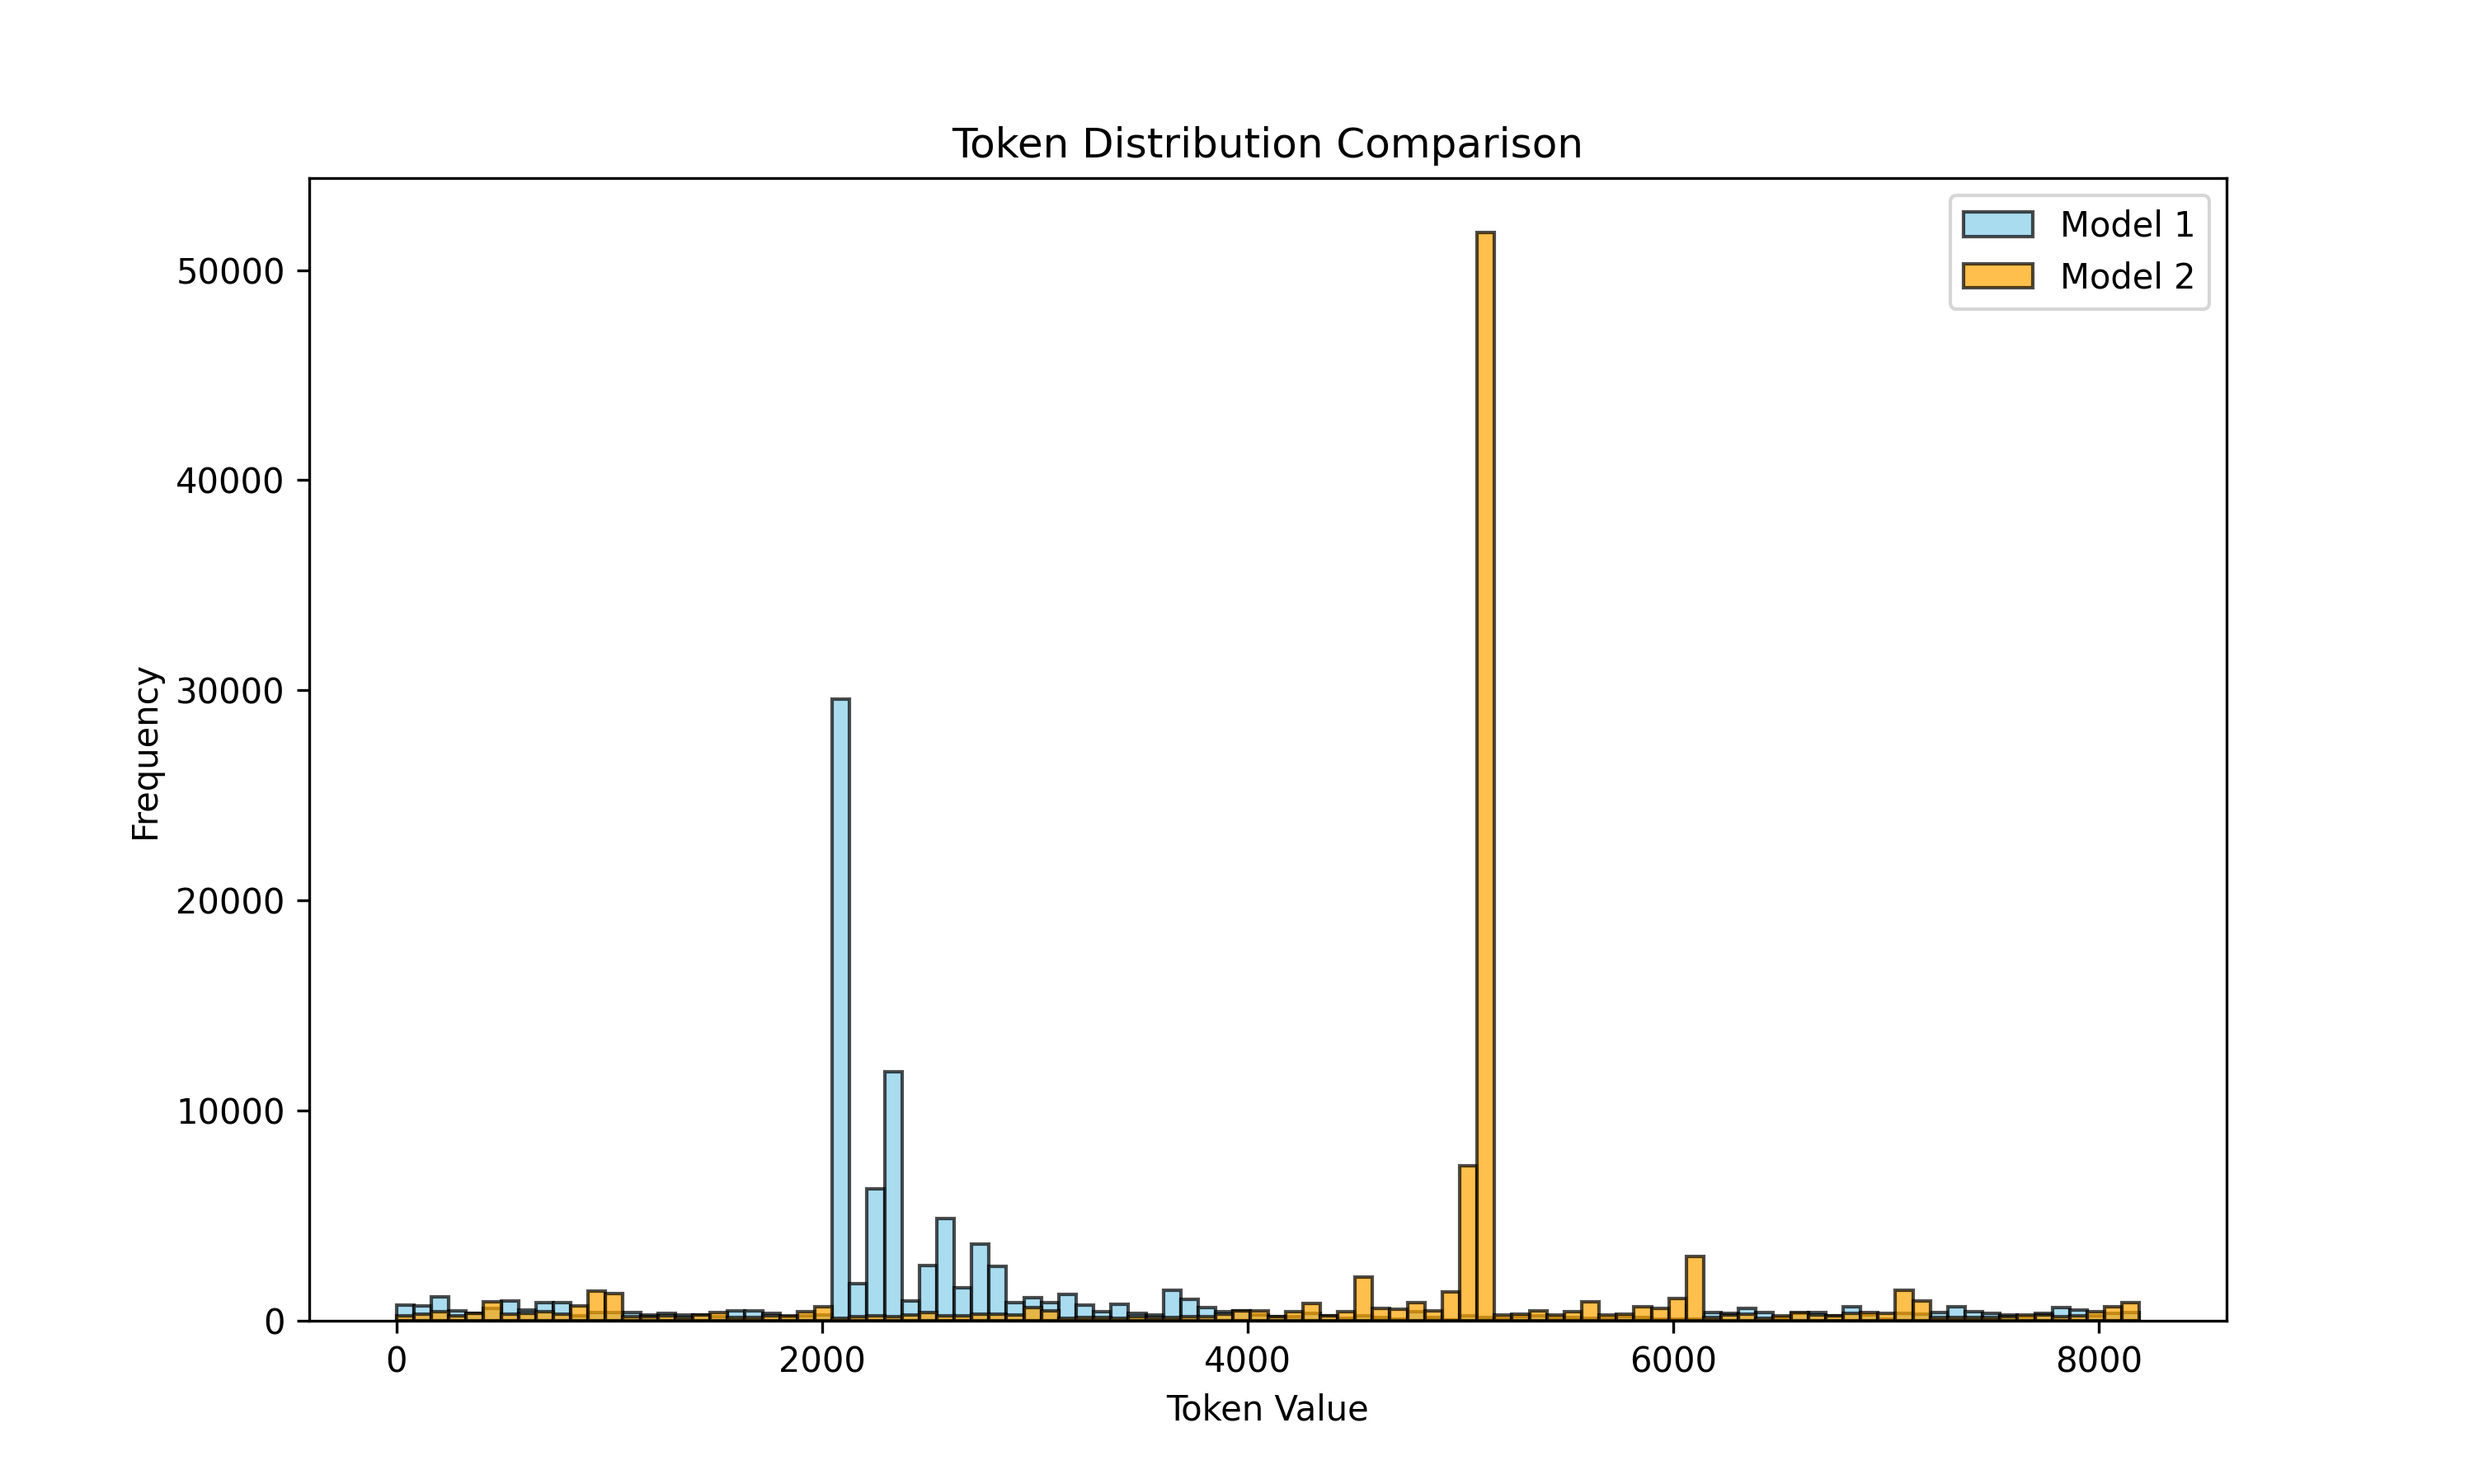
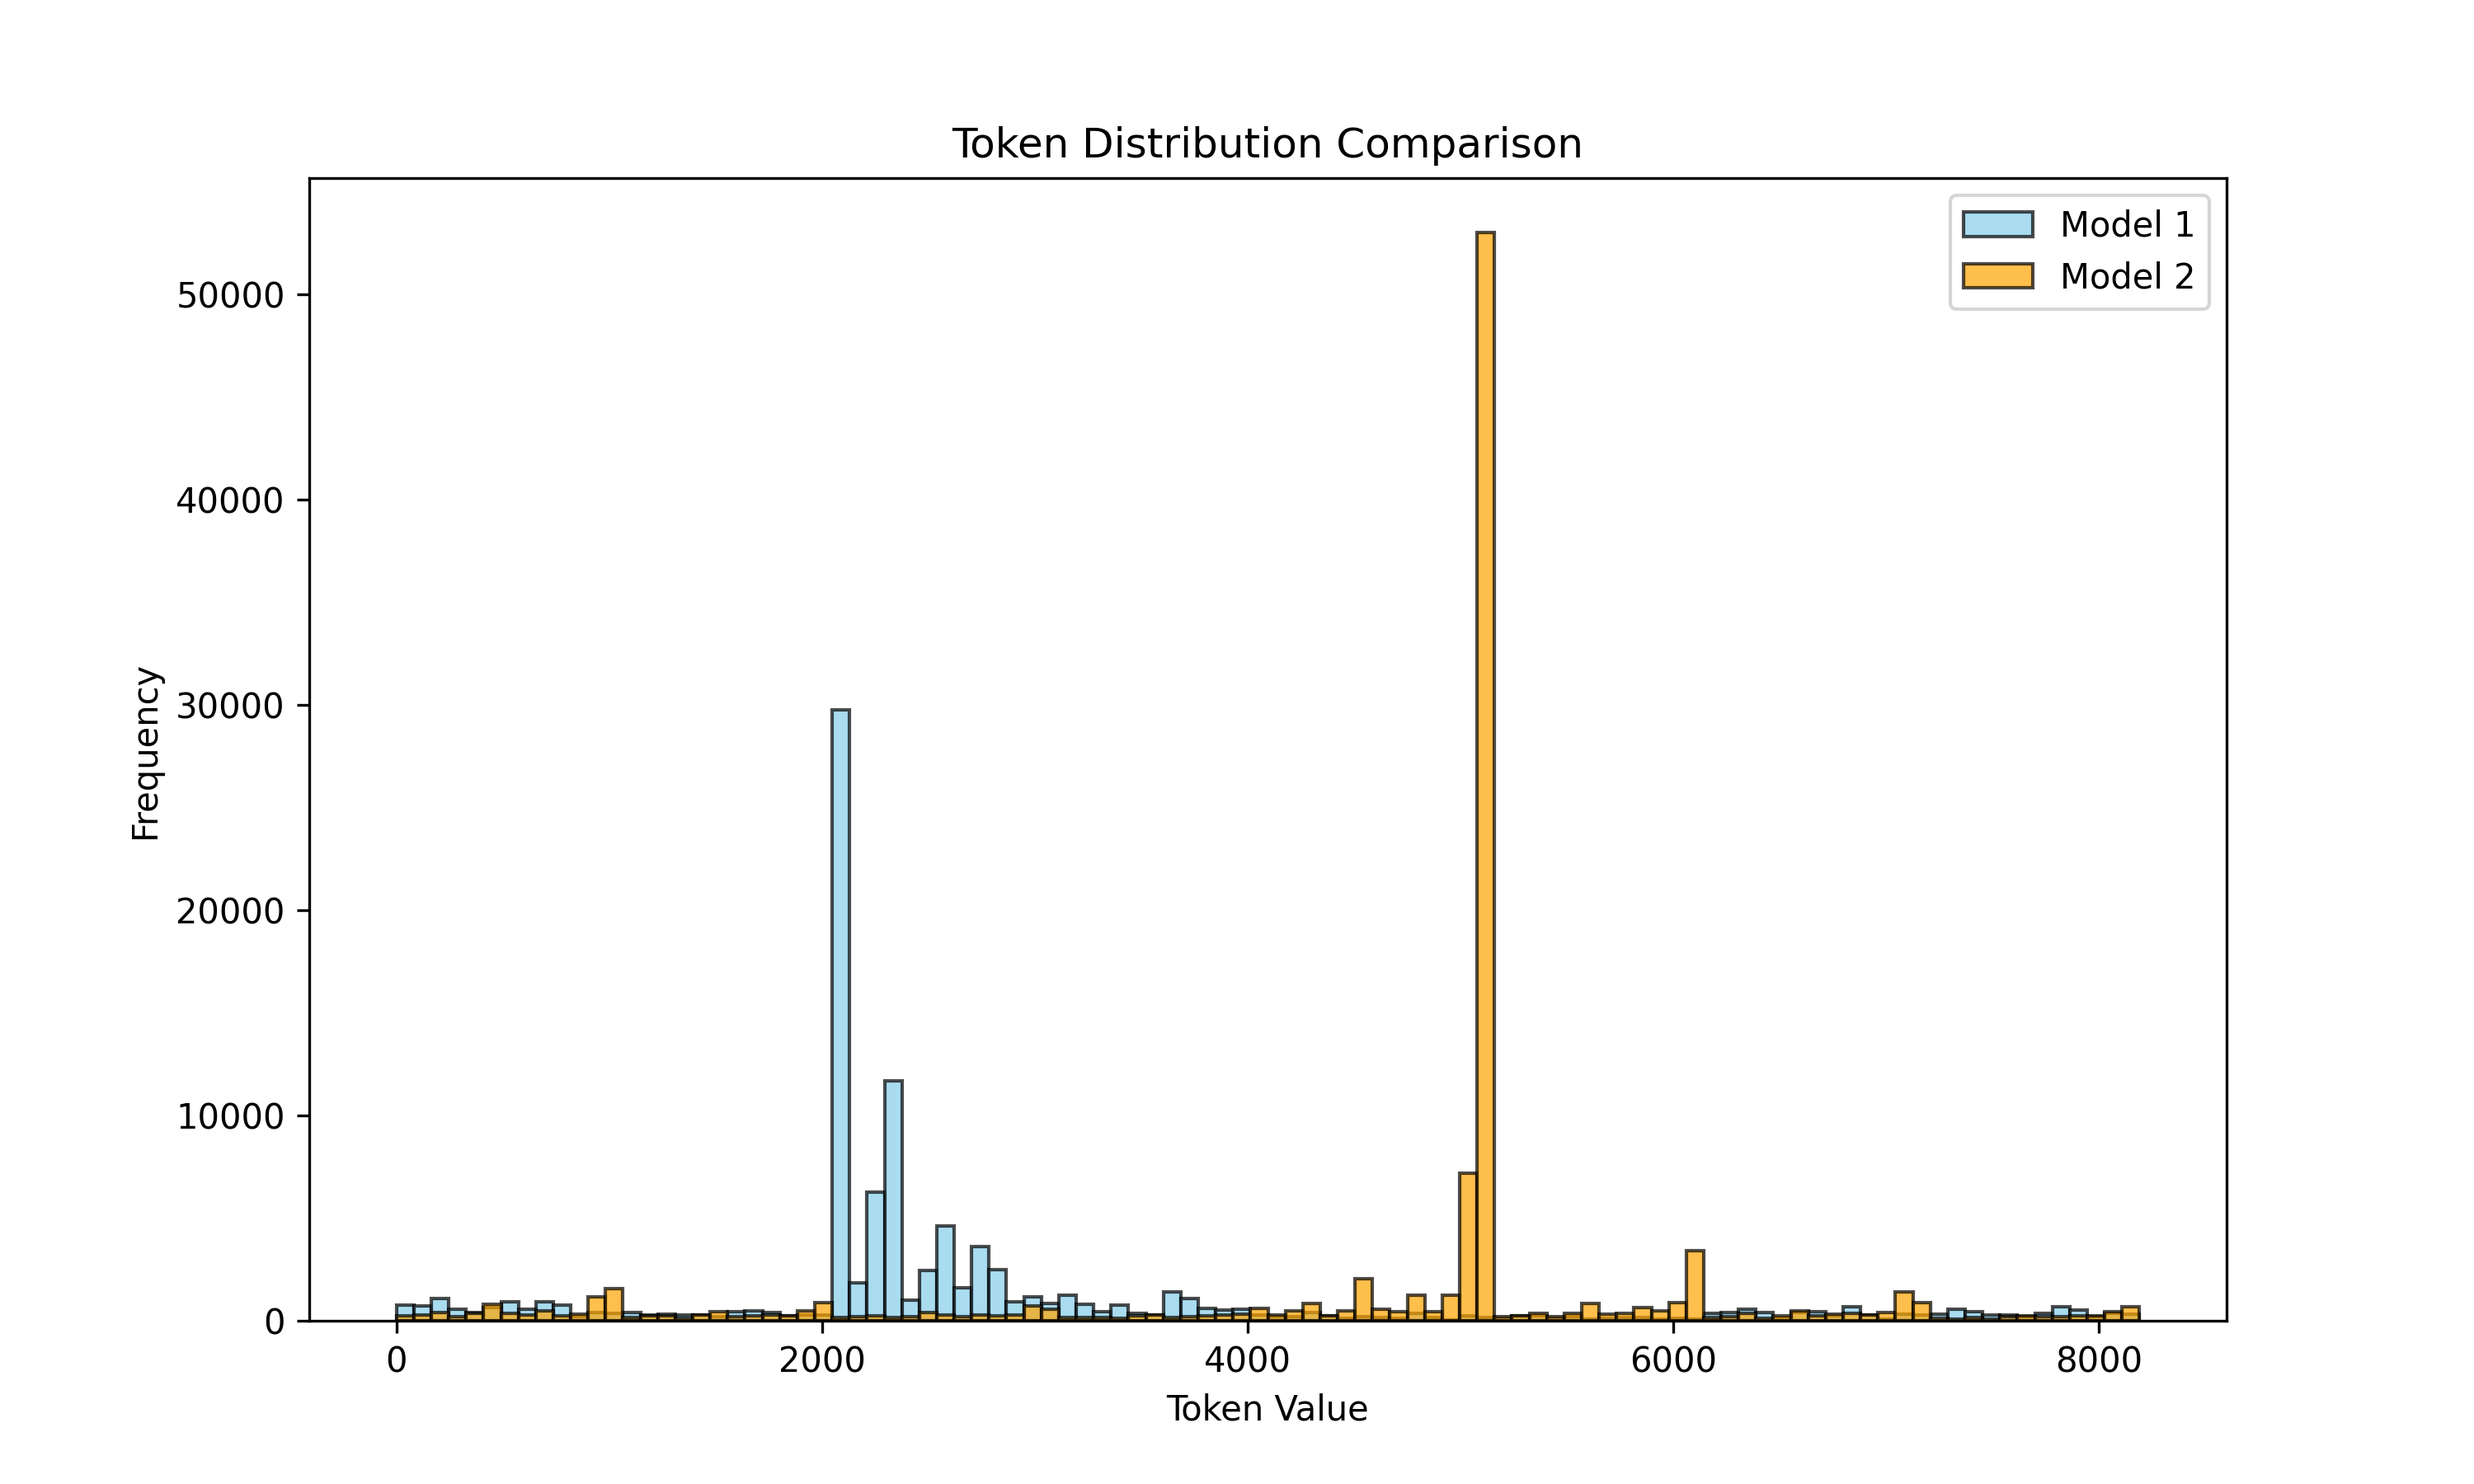
support ema loading

diff --git a/draw_vq_distribution.py b/draw_vq_distribution.py
@@ -16,22 +16,20 @@ def load_config(config_path, display=True):
         print(OmegaConf.to_yaml(config))
     return config
 
-def load_vqgan_new(config, ckpt_path=None, use_ema=False):
+def load_vqgan_new(config, ckpt_path=None, use_ema=True):
     model = VQModel(**config.model.init_args.ddconfig)
     if ckpt_path is not None:
         # 加载检查点文件中的 state_dict
         sd = torch.load(ckpt_path, map_location="cpu")["state_dict"]
         
-        weights = {k: v for k, v in sd.items() if 'loss' not in k}
-        
         # 提取出普通模型权重和 EMA 权重
         if use_ema:
-            weights = {k.replace('model_ema.', ''): v for k, v in sd.items() if k.startswith('model_ema.') and 'loss' not in k}
+            key_map = {k.replace('.', ''): k for k in sd.keys() if not k.startswith('model_ema.') and 'loss' not in k} 
+            weights = {key_map[k.replace('model_ema.', '')]: v for k, v in sd.items() if k.startswith('model_ema.') and 'loss' not in k and 'model_ema.decay' not in k and 'model_ema.num_updates' not in k}
             print("Load from EMA!")
-            # ! Todo: fix keys error in ema!!!!       
+            # ! Todo: fix keys error in ema!!!!
         else:
             weights = {k: v for k, v in sd.items() if not k.startswith('model_ema.') and 'loss' not in k}
-            
         model.load_state_dict(weights, strict=True)
             
     return model.eval()
@@ -126,11 +124,11 @@ if __name__ == '__main__':
     model1 = MAGVITv2.from_pretrained('showlab/magvitv2')
     
     # 加载模型二
-    config_file_2 = "/lustre/home/2001110054/GEO-Open-MAGVIT2/outputs/expr_1105_mask/show_base/show/config.yaml"
-    ckpt_path_2 = "/lustre/home/2001110054/GEO-Open-MAGVIT2/outputs/expr_1105_mask/show_base/ckpt/epoch=98-step=36828.ckpt"
+    config_file_2 = "/lustre/home/2001110054/GEO-Open-MAGVIT2/outputs/expr_1109_mask/show/config.yaml"
+    ckpt_path_2 = "/lustre/home/2001110054/GEO-Open-MAGVIT2/outputs/expr_1109_mask/ckpt/epoch=148-step=55428.ckpt"
     
     config_model_2 = load_config(config_path=config_file_2, display=False)
     model2 = load_vqgan_new(config_model_2, ckpt_path=ckpt_path_2)
 
-    img_folder = '/lustre/home/2001110054/Show-o/data/formalgeo7k_v2/diagrams'  # 图片文件夹路径
+    img_folder = '/lustre/home/2001110054/Show-o/data/formalgeo7k/formalgeo7k_v2/diagrams'  # 图片文件夹路径
     compare_vq_models(model1, model2, img_folder)

diff --git a/test_geo_vq_model.py b/test_geo_vq_model.py
@@ -23,17 +23,16 @@ def load_config(config_path, display=True):
         print(OmegaConf.to_yaml(config))
     return config
 
-def load_vqgan_new(config, ckpt_path=None, use_ema=False):
+def load_vqgan_new(config, ckpt_path=None, use_ema=True):
     model = VQModel(**config.model.init_args.ddconfig)
     if ckpt_path is not None:
         # 加载检查点文件中的 state_dict
         sd = torch.load(ckpt_path, map_location="cpu")["state_dict"]
         
-        weights = {k: v for k, v in sd.items() if 'loss' not in k}
-        
         # 提取出普通模型权重和 EMA 权重
         if use_ema:
-            weights = {k.replace('model_ema.', ''): v for k, v in sd.items() if k.startswith('model_ema.') and 'loss' not in k}
+            key_map = {k.replace('.', ''): k for k in sd.keys() if not k.startswith('model_ema.') and 'loss' not in k} 
+            weights = {key_map[k.replace('model_ema.', '')]: v for k, v in sd.items() if k.startswith('model_ema.') and 'loss' not in k and 'model_ema.decay' not in k and 'model_ema.num_updates' not in k}
             print("Load from EMA!")
             # ! Todo: fix keys error in ema!!!!
         else:
@@ -74,15 +73,15 @@ def image_transform(image, resolution=256):
 if __name__ == '__main__':
     
     device = torch.device("cuda" if torch.cuda.is_available() else "cpu")
-    config_file = "/lustre/home/2001110054/GEO-Open-MAGVIT2/outputs/expr_1105_mask/show_base/show/config.yaml"
-    ckpt_path = "/lustre/home/2001110054/GEO-Open-MAGVIT2/outputs/expr_1105_mask/show_base/ckpt/epoch=98-step=36828.ckpt"
+    config_file = "/lustre/home/2001110054/GEO-Open-MAGVIT2/outputs/expr_1110_mask/show/config.yaml"
+    ckpt_path = "/lustre/home/2001110054/GEO-Open-MAGVIT2/outputs/expr_1110_mask/ckpt/last.ckpt"
     
     # 加载模型
     config_model = load_config(config_path=config_file, display=False)
     model = load_vqgan_new(config_model, ckpt_path=ckpt_path).to(device)
     
     # 图片文件夹路径
-    img_folder = '/lustre/home/2001110054/Show-o/data/formalgeo7k_v2/diagrams'  # 记得修改文件夹路径
+    img_folder = '/lustre/home/2001110054/Show-o/data/formalgeo7k/formalgeo7k_v2/diagrams'  # 记得修改文件夹路径
     
     # 获取文件夹中的所有图片文件
     img_files = [f for f in os.listdir(img_folder) if f.endswith('.png')]  # 你可以根据需要更改扩展名

diff --git a/training/finetuning.py b/training/finetuning.py
@@ -66,18 +66,19 @@ except ImportError:
 
 logger = get_logger(__name__, log_level="INFO")
 
-def load_vqgan_new(vq_model, config, ckpt_path=None, use_ema=False):
+def load_vqgan_new(vq_model, config, ckpt_path=None, use_ema=True):
     model = vq_model(**config)
     
     if ckpt_path is not None:
         # 加载检查点文件中的 state_dict
         sd = torch.load(ckpt_path, map_location="cpu")["state_dict"]
         
-        # 提取出普通模型权重和 EMA 权重
+         # 提取出普通模型权重和 EMA 权重
         if use_ema:
-            weights = {k.replace('model_ema.', ''): v for k, v in sd.items() if k.startswith('model_ema.') and 'loss' not in k}
+            key_map = {k.replace('.', ''): k for k in sd.keys() if not k.startswith('model_ema.') and 'loss' not in k} 
+            weights = {key_map[k.replace('model_ema.', '')]: v for k, v in sd.items() if k.startswith('model_ema.') and 'loss' not in k and 'model_ema.decay' not in k and 'model_ema.num_updates' not in k}
             print("Load from EMA!")
-            # ! Todo: fix keys error in ema!!!!
+            
         else:
             weights = {k: v for k, v in sd.items() if not k.startswith('model_ema.') and 'loss' not in k}
         
